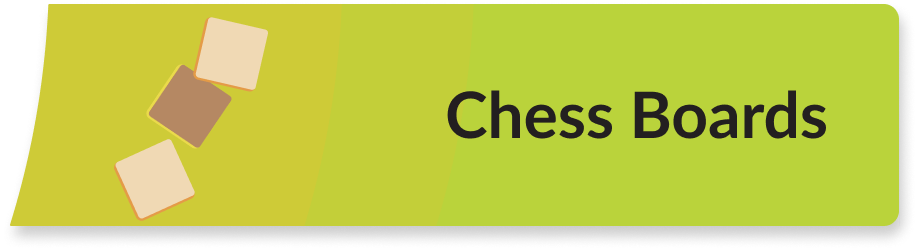
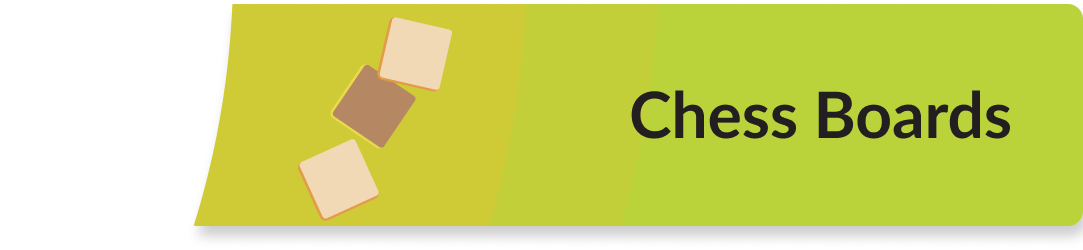
backback page basic html done, needs future refinement

Changed region(s): [[0.0, 0.0, 0.427, 0.952], [0.488, 0.364, 0.9455, 0.56], [0.9455, 0.0, 1.0, 0.952]]

diff --git a/YStemAndChess/src/app/pages/backpack-page/backpack-page.component.html b/YStemAndChess/src/app/pages/backpack-page/backpack-page.component.html
@@ -1,1 +1,115 @@
-<p>backpack-page works!</p>
+<html>
+    <head>
+        <meta charset="utf-8">
+        <meta http-equiv="X-UA-Compatible" content="IE=edge">
+        <title></title>
+        <meta name="description" content="">
+        <meta name="viewport" content="width=device-width, initial-scale=1">
+        <link rel="stylesheet" href="">
+	<style>
+        .container {
+            min-height: 60%;
+            max-height: 60%;
+            min-width: 80%;
+            max-width: 80%;
+            /* border: 2px solid red; debug use */
+        }
+        .container img {
+            max-width: 100%;
+            max-height: 100%;
+            object-fit: contain;
+        }
+        #backpack {
+            display:inline-block;
+            width: 50%;
+            height: 50%;
+            padding-top: 5%;
+            padding-right: 10%;
+        }
+        #title {
+            display:inline;
+            vertical-align: middle;
+            width: 70%;
+            background-color: #eada4b;
+            border-radius: 50px;
+        }
+        #titleText {
+            margin-left: 10%;
+            margin-top: 25px;
+        }
+        #profile {
+            display:inline;
+            margin-left: 5%;
+        }
+        #leaderboard {
+            display:inline;
+            margin-left: 5%;
+        }
+        #list {
+            display:inline-block;
+            height: 60%;
+            object-fit: contain;
+        }
+        #toprow {
+            display: flex;
+        }
+        #botrow {
+            display: flex;
+        }
+    </style>
+    </head>
+    <header>
+        <app-header></app-header>
+    </header>
+    <body>
+        <div class="container">
+            <div id="toprow">
+                <div id="title">
+                    
+                    <h1 id="titleText">User's Backpack</h1>
+                </div>
+                <div id="profile">
+                    <img class="mb-2" src = "../../assets/images/backpackPage/Profile.png">
+                </div>
+                <div id="leaderboard">
+                    <img class="mb-2" src = "../../assets/images/backpackPage/Leaderboard.png">
+                </div>
+            </div>
+
+            <br>
+            
+            <div id="botrow">
+                <div id="backpack">
+                    <img class="mb-2" src = "../../assets/images/backpackPage/backpack.png">
+                </div>
+                <div id="list">
+                <ul>
+                    <li>
+                        <div id="streakprogress">
+                            <img class="mb-2" src = "../../assets/images/backpackPage/StreakProgress.png">
+                        </div>
+                    </li>
+                    <li>    
+                        <div id="growthquests">
+                            <img class="mb-2" src = "../../assets/images/backpackPage/GrowthQuests.png">
+                        </div>
+                    </li>
+                    <li>    
+                        <div id="chessboards">
+                            <img class="mb-2" src = "../../assets/images/backpackPage/ChessBoards.png">
+                        </div>
+                    </li>
+                    <li>    
+                        <div id="achievements">
+                            <img class="mb-2" src = "../../assets/images/backpackPage/Achievements.png">
+                        </div>
+                    </li>
+                </ul>
+            </div>
+            </div>
+        </div>
+    </body>
+    <footer>
+        <app-footer></app-footer>
+    </footer>
+</html>
